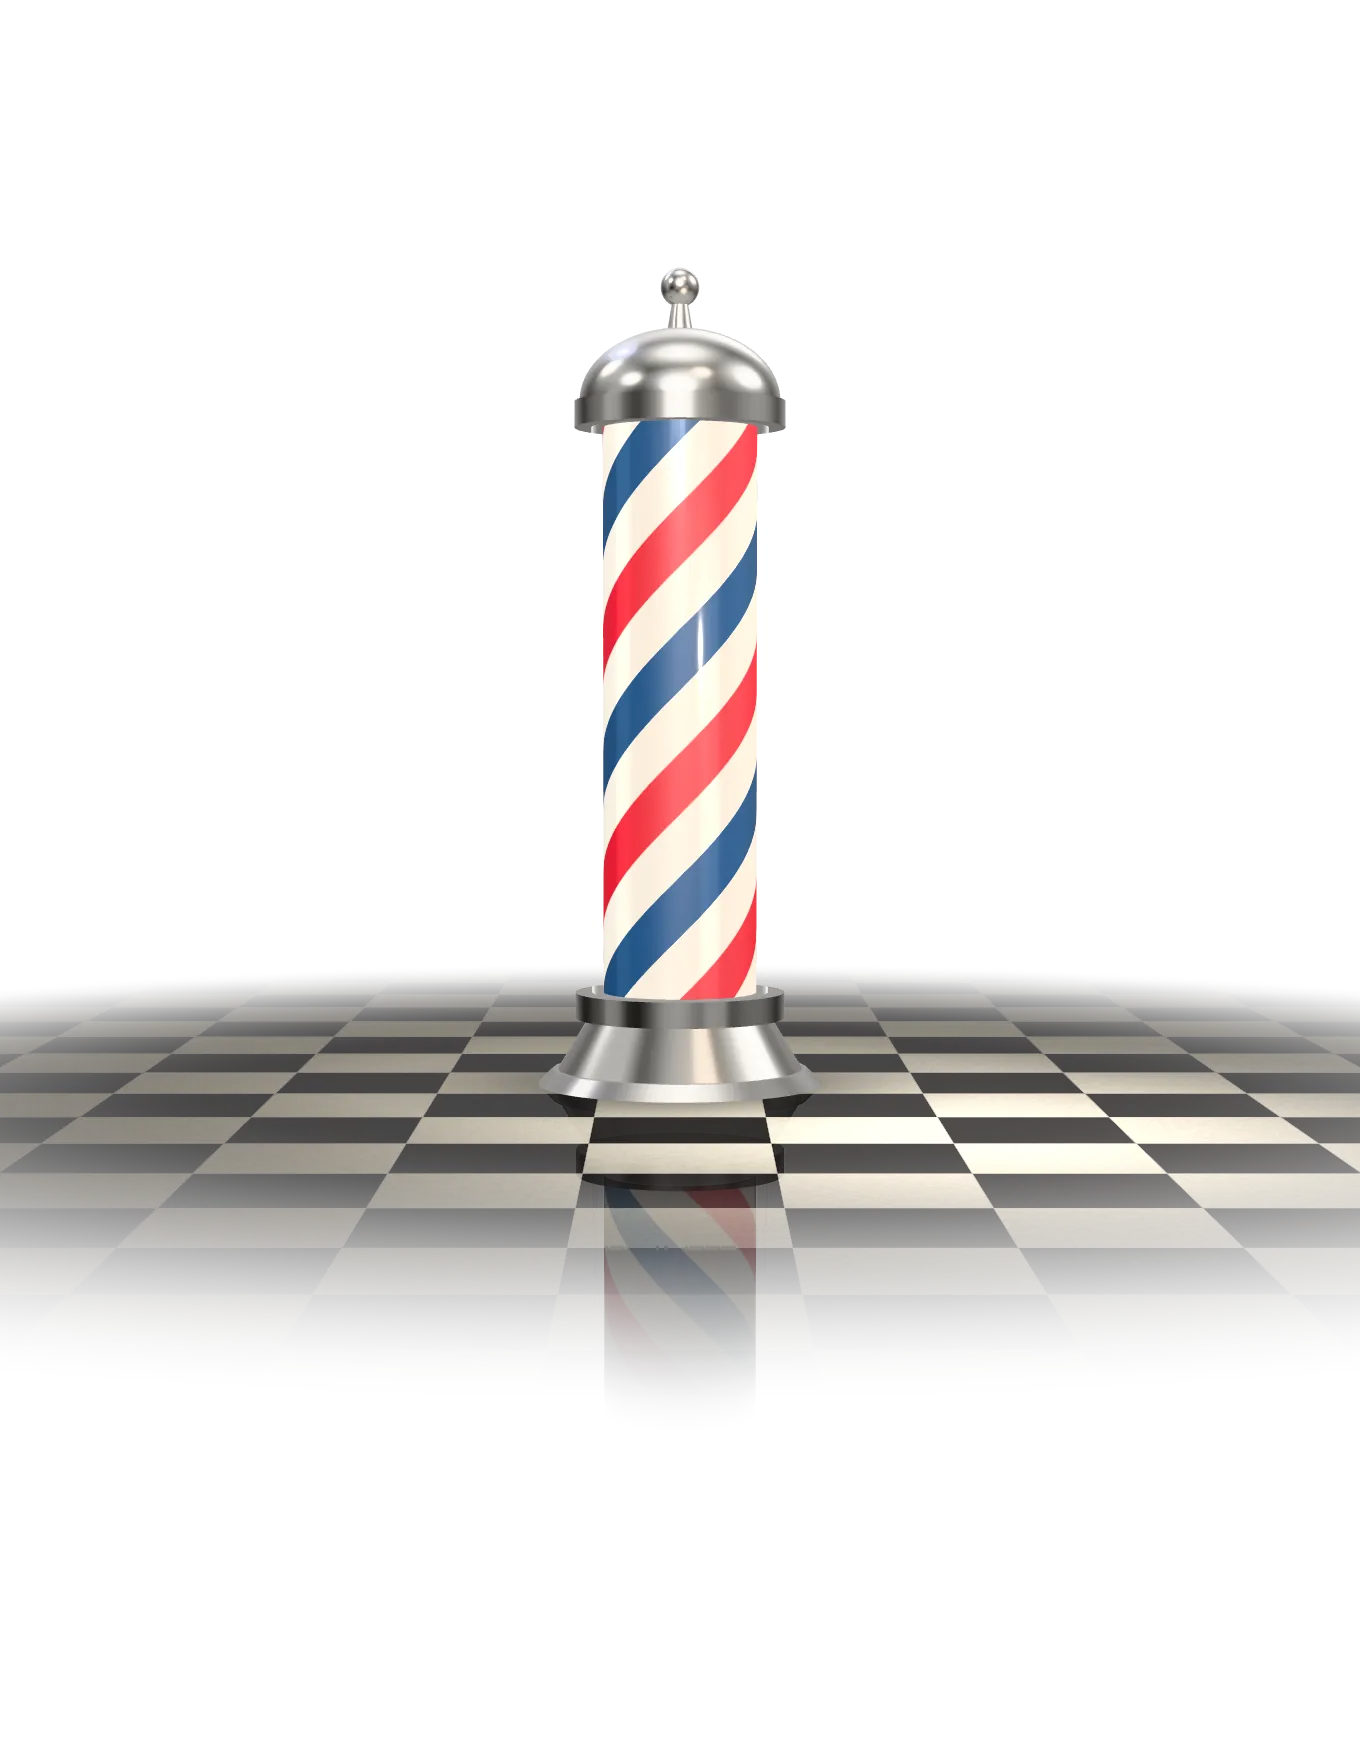
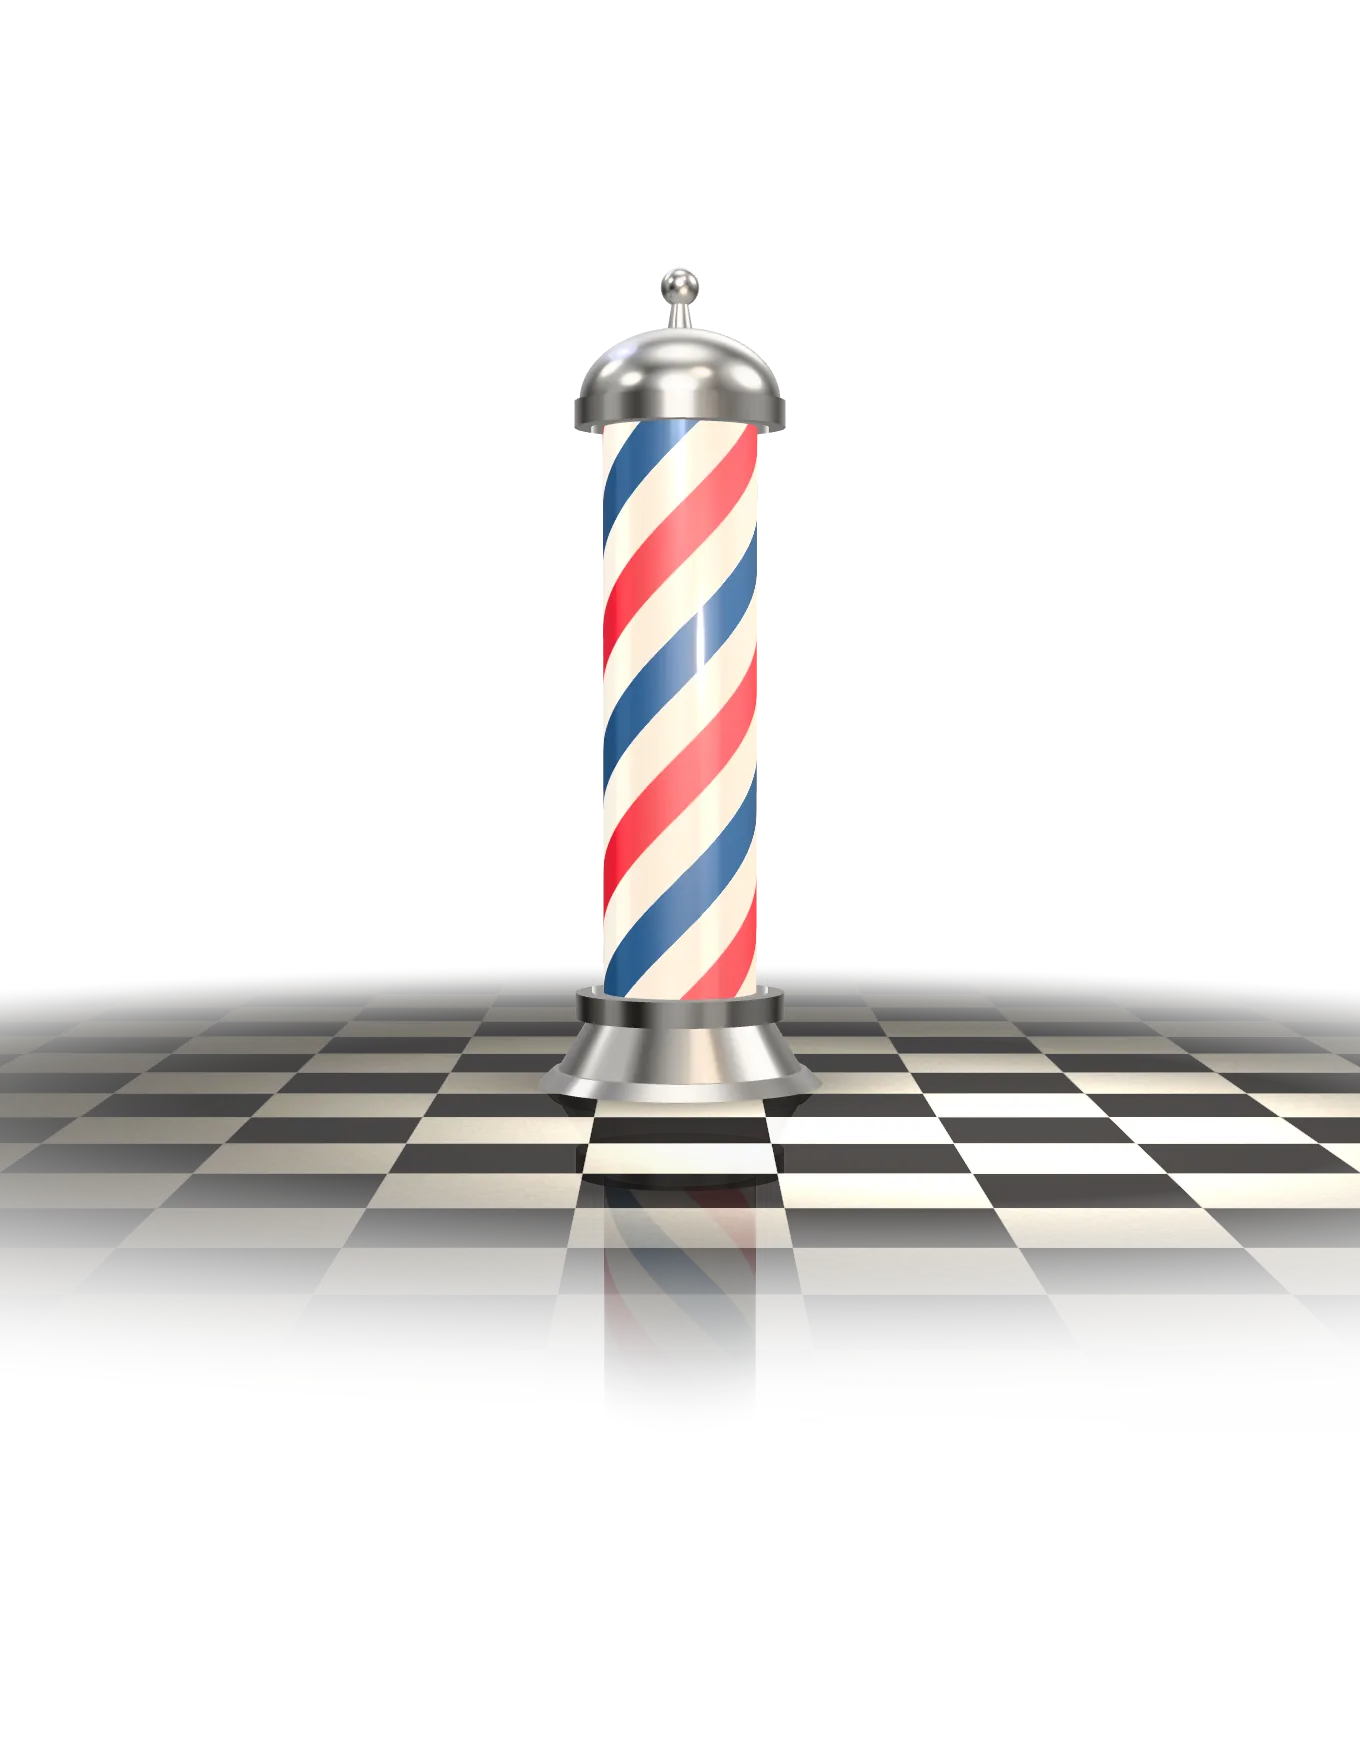
QA fixes: lamp, reflection fade, reduced motion, seams, mobile fit
- Glass sleeve adds light only and writes matching alpha; the floor
  reflection fades out with depth instead of showing a dark shape.
- Stronger cursor lamp pool; stills recaptured from the live scene.
- Reduced motion: MotionConfig follows the user setting (fixes a
  hydration mismatch), no scroll parallax or photo lean.
- Seams turn flat (no 3D distortion) in a clean checker sweep; cape
  lift uses 22 strips on a smooth wave; split hours stack per line.
- Mouse layouts only from 640px up; price photo tracks the cursor
  while scrolling; tighter mobile CTA sizing.

diff --git a/src/components/hero/PoleScene.tsx b/src/components/hero/PoleScene.tsx
@@ -178,14 +178,14 @@ const floorFrag = /* glsl */ `
     base *= 0.93 + 0.1 * hash(floor(p * 95.0));
 
     float d = length(p);
-    float pool = exp(-pow(length(p - uLight) / 1.5, 2.0));
-    float lit = 0.1 + uLightK * pool + 0.42 * exp(-d * d / 4.0);
+    float pool = exp(-pow(length(p - uLight) / 1.7, 2.0));
+    float lit = 0.07 + uLightK * pool + 0.3 * exp(-d * d / 4.0);
     lit *= mix(0.3, 1.0, smoothstep(0.3, 1.3, d)); // contact shadow under the base
     vec3 col = base * lit;
 
     float fade = 1.0 - smoothstep(uRadius * 0.3, uRadius, d);
-    // dark tiles show more of the reflection, like the real floor
-    float alpha = fade * mix(0.74, 0.95, c);
+    // dark tiles show more of the reflection, like the real floor; the lamp lifts the fade where it lands
+    float alpha = min(1.0, fade + pool * 0.45) * mix(0.74, 0.95, c);
     gl_FragColor = vec4(col, alpha);
     #include <colorspace_fragment>
   }
@@ -201,7 +201,7 @@ function Floor({ light }: { light: React.RefObject<THREE.Vector3> }) {
         depthWrite: false,
         uniforms: {
           uLight: { value: new THREE.Vector2(0.8, 1.2) },
-          uLightK: { value: 1.25 },
+          uLightK: { value: 2.1 },
           uInk: { value: new THREE.Color("#0c0908") },
           uCream: { value: new THREE.Color("#ece2cf") },
           uRadius: { value: 5.2 },
@@ -344,7 +344,7 @@ function Rig({ onReady, still }: { onReady?: () => void; still: boolean }) {
       <ambientLight intensity={0.18} />
       <directionalLight position={[-3, 5, -4]} intensity={1.6} color="#cfd8ff" />
       <directionalLight position={[3, 6, 5]} intensity={0.55} color="#fff1e0" />
-      <pointLight ref={point} intensity={9} distance={9} decay={1.6} color="#ffe2c4" />
+      <pointLight ref={point} intensity={24} distance={10} decay={1.6} color="#ffe2c4" />
       <Pole m={m} />
       <Pole m={mm} mirror />
       <Floor light={lightPos} />

diff --git a/src/components/sections/Reviews.tsx b/src/components/sections/Reviews.tsx
@@ -1,7 +1,7 @@
 "use client";
 
 import { useState } from "react";
-import { AnimatePresence, motion, useReducedMotion, type PanInfo } from "framer-motion";
+import { AnimatePresence, motion, type PanInfo } from "framer-motion";
 import { ArrowLeft, ArrowRight } from "lucide-react";
 import { CheckerSeam } from "@/components/ui/CheckerSeam";
 import { Cta, Stars } from "@/components/ui/Cta";
@@ -19,7 +19,6 @@ const serviceEs: Record<string, string> = {
 /** The real Booksy rating, big, with the six real quotes in a carousel over a halftone rose. */
 export function Reviews() {
   const [[i, dir], set] = useState<[number, number]>([0, 1]);
-  const reduce = useReducedMotion();
   const go = (d: number) => set(([cur]) => [(cur + d + reviews.length) % reviews.length, d]);
   const r = reviews[i];
 
@@ -86,13 +85,13 @@ export function Reviews() {
                   <motion.figure
                     key={i}
                     custom={dir}
-                    drag={reduce ? false : "x"}
+                    drag="x"
                     dragConstraints={{ left: 0, right: 0 }}
                     dragElastic={0.25}
                     onDragEnd={onDragEnd}
-                    initial={reduce ? { opacity: 0 } : { opacity: 0, x: dir * 60, filter: "blur(8px)" }}
+                    initial={{ opacity: 0, x: dir * 60, filter: "blur(8px)" }}
                     animate={{ opacity: 1, x: 0, filter: "blur(0px)" }}
-                    exit={reduce ? { opacity: 0 } : { opacity: 0, x: dir * -60, filter: "blur(8px)" }}
+                    exit={{ opacity: 0, x: dir * -60, filter: "blur(8px)" }}
                     transition={{ duration: 0.5, ease: [0.16, 1, 0.3, 1] }}
                     className="cursor-grab touch-pan-y active:cursor-grabbing"
                   >

diff --git a/src/components/sections/Lookbook.tsx b/src/components/sections/Lookbook.tsx
@@ -1,7 +1,7 @@
 "use client";
 
 import { useState } from "react";
-import { AnimatePresence, motion, useReducedMotion } from "framer-motion";
+import { AnimatePresence, motion } from "framer-motion";
 import { RotateCw } from "lucide-react";
 import { CheckerSeam } from "@/components/ui/CheckerSeam";
 import { Photo } from "@/components/ui/Photo";
@@ -64,7 +64,6 @@ function Tile({ look, flipped, onFlip }: { look: Look; flipped: boolean; onFlip:
 export function Lookbook() {
   const [cat, setCat] = useState<Category | "all">("all");
   const [flipped, setFlipped] = useState<Record<string, boolean>>({});
-  const reduce = useReducedMotion();
   const shown = looks.filter((l) => cat === "all" || l.cats.includes(cat));
 
   return (
@@ -125,17 +124,17 @@ export function Lookbook() {
           </div>
 
           <motion.ul
-            layout={!reduce}
+            layout
             className="mt-8 grid grid-cols-2 gap-x-3 gap-y-7 sm:grid-cols-3 sm:gap-x-4 lg:grid-cols-4 lg:gap-x-5 lg:gap-y-10"
           >
             <AnimatePresence mode="popLayout" initial={false}>
               {shown.map((l) => (
                 <motion.li
                   key={l.id}
-                  layout={!reduce}
-                  initial={reduce ? false : { opacity: 0, y: 24, filter: "blur(6px)" }}
+                  layout
+                  initial={{ opacity: 0, y: 24, filter: "blur(6px)" }}
                   animate={{ opacity: 1, y: 0, filter: "blur(0px)" }}
-                  exit={reduce ? { opacity: 0 } : { opacity: 0, scale: 0.94, filter: "blur(6px)" }}
+                  exit={{ opacity: 0, scale: 0.94, filter: "blur(6px)" }}
                   transition={{ duration: 0.5, ease: [0.16, 1, 0.3, 1] }}
                   className="min-w-0"
                 >

diff --git a/src/components/hero/Hero.tsx b/src/components/hero/Hero.tsx
@@ -37,7 +37,7 @@ export function Hero() {
       <motion.div
         aria-hidden
         style={{ y: feelY }}
-        className="absolute inset-x-0 top-[calc(4.5rem+2svh)] flex justify-center lg:top-[11svh]"
+        className="absolute inset-x-0 top-[calc(4.5rem+2svh)] flex justify-center motion-reduce:transform-none! lg:top-[11svh]"
       >
         <span className="block font-display text-[min(56vw,40svh)] leading-[0.78] font-black tracking-[-0.015em] text-paper uppercase lg:text-[min(37vw,60svh)]">
           Feel
@@ -50,7 +50,7 @@ export function Hero() {
       <motion.div
         aria-hidden
         style={{ y: contentY }}
-        className="pointer-events-none absolute inset-x-0 top-[41svh] z-20 flex justify-center lg:top-[47svh]"
+        className="pointer-events-none absolute inset-x-0 top-[41svh] z-20 flex justify-center motion-reduce:transform-none! lg:top-[47svh]"
       >
         <span className="script-stroke block translate-x-[6%] -rotate-[7deg] font-script text-[min(30vw,15svh)] leading-none text-rose-lit drop-shadow-[0_12px_24px_rgb(0_0_0/0.55)] lg:translate-x-[22%] lg:text-[min(15vw,26svh)]">
           Goods
@@ -66,7 +66,7 @@ export function Hero() {
 
       <motion.div
         style={{ y: contentY, opacity: contentOpacity }}
-        className="absolute inset-x-0 bottom-0 z-40 flex flex-col gap-5 px-5 pb-[4.75rem] sm:px-8 lg:flex-row lg:items-end lg:justify-between lg:px-12 lg:pb-12"
+        className="absolute inset-x-0 bottom-0 z-40 flex flex-col gap-5 motion-reduce:transform-none! px-5 pb-[4.75rem] sm:px-8 lg:flex-row lg:items-end lg:justify-between lg:px-12 lg:pb-12"
       >
         <div className="max-w-[26rem]">
           <p className="text-[0.98rem] leading-relaxed text-paper/90 text-pretty sm:text-lg">

diff --git a/src/components/sections/Visit.tsx b/src/components/sections/Visit.tsx
@@ -1,7 +1,7 @@
 "use client";
 
 import { useRef } from "react";
-import { motion, useMotionValue, useReducedMotion, useSpring } from "framer-motion";
+import { motion, useMotionValue, useSpring } from "framer-motion";
 import { Accessibility, Baby, CircleParking, CreditCard, DoorOpen, Phone, Wifi } from "lucide-react";
 import { CheckerSeam } from "@/components/ui/CheckerSeam";
 import { Cta } from "@/components/ui/Cta";
@@ -26,14 +26,13 @@ const icons = {
 /** A stylized map: abstract streets (no invented landmarks), the shop's block in checker tiles, a star pin. */
 function StylizedMap() {
   const ref = useRef<HTMLDivElement>(null);
-  const reduce = useReducedMotion();
   const rx = useMotionValue(26);
   const rz = useMotionValue(-9);
   const srx = useSpring(rx, { stiffness: 120, damping: 18 });
   const srz = useSpring(rz, { stiffness: 120, damping: 18 });
 
   const onMove = (e: React.PointerEvent) => {
-    if (reduce || e.pointerType !== "mouse" || !ref.current) return;
+    if (e.pointerType !== "mouse" || !ref.current) return;
     const r = ref.current.getBoundingClientRect();
     const nx = (e.clientX - r.left) / r.width - 0.5;
     const ny = (e.clientY - r.top) / r.height - 0.5;

diff --git a/src/components/sections/Prices.tsx b/src/components/sections/Prices.tsx
@@ -1,7 +1,15 @@
 "use client";
 
 import { useEffect, useRef, useState } from "react";
-import { AnimatePresence, motion, useMotionValue, useSpring, useTransform, useVelocity } from "framer-motion";
+import {
+  AnimatePresence,
+  motion,
+  useMotionValue,
+  useReducedMotion,
+  useSpring,
+  useTransform,
+  useVelocity,
+} from "framer-motion";
 import { ArrowUpRight } from "lucide-react";
 import { CheckerSeam } from "@/components/ui/CheckerSeam";
 import { Photo } from "@/components/ui/Photo";
@@ -23,7 +31,10 @@ export function Prices() {
   const sx = useSpring(x, { stiffness: 260, damping: 28, mass: 0.6 });
   const sy = useSpring(y, { stiffness: 260, damping: 28, mass: 0.6 });
   const vx = useVelocity(sx);
-  const rotate = useTransform(vx, [-1600, 0, 1600], [-9, 0, 9], { clamp: true });
+  const reduce = useReducedMotion();
+  const lean = useTransform(vx, [-1600, 0, 1600], [-9, 0, 9], { clamp: true });
+  const still = useMotionValue(0);
+  const rotate = reduce ? still : lean;
 
   const last = useRef<{ x: number; y: number } | null>(null);
   const place = () => {

diff --git a/src/app/layout.tsx b/src/app/layout.tsx
@@ -5,7 +5,7 @@ import { Nav } from "@/components/layout/Nav";
 import { Footer } from "@/components/layout/Footer";
 import { CapeLoader } from "@/components/loader/CapeLoader";
 import { PreviewMark } from "@/components/ui/PreviewMark";
-import { LangProvider } from "@/lib/i18n";
+import { Providers } from "@/lib/i18n";
 
 const big = Big_Shoulders({ subsets: ["latin"], axes: ["opsz"], variable: "--font-big", display: "swap" });
 const dafoe = Mr_Dafoe({ subsets: ["latin"], weight: "400", variable: "--font-dafoe", display: "swap" });
@@ -46,12 +46,12 @@ export default function RootLayout({ children }: { children: React.ReactNode }) 
         />
       </head>
       <body className="min-h-svh">
-        <LangProvider>
+        <Providers>
           <CapeLoader />
           <Nav />
           <main className="overflow-x-clip">{children}</main>
           <Footer />
-        </LangProvider>
+        </Providers>
         <PreviewMark />
       </body>
     </html>

diff --git a/src/components/loader/CapeLoader.tsx b/src/components/loader/CapeLoader.tsx
@@ -7,9 +7,9 @@ import { T } from "@/lib/i18n";
 import { useClientValue } from "@/lib/client-stores";
 
 export const CAPE_KEY = "fg-cape";
-const STRIPS = 14;
+const STRIPS = 22;
 const HOLD_MS = 1500;
-const LIFT_MS = 1150;
+const LIFT_MS = 1300;
 
 /**
  * "Cape off": the page opens under the shop's own rose cape, then the cape is whipped off the way a
@@ -59,8 +59,9 @@ export function CapeLoader() {
   return (
     <div className="cape-loader fixed inset-0 z-[100]" aria-hidden={lifting}>
       {Array.from({ length: STRIPS }, (_, i) => {
-        // pulled from the left, with a ripple running through the hem
-        const delay = i * 34 + Math.sin(i * 0.95) * 46 + 40;
+        // pulled from the left; a smooth wave across neighbours makes the hem ripple instead of step
+        const u = i / (STRIPS - 1);
+        const delay = 40 + u * 360 + Math.sin(u * Math.PI * 2) * 55;
         return (
           <div
             key={i}

diff --git a/src/lib/i18n.tsx b/src/lib/i18n.tsx
@@ -1,6 +1,7 @@
 "use client";
 
 import { useCallback, useSyncExternalStore, type ReactNode } from "react";
+import { MotionConfig } from "framer-motion";
 
 export type Lang = "en" | "es";
 export type Copy = { en: string; es: string };
@@ -35,9 +36,9 @@ export function useLang() {
   return { lang, setLang: useCallback((l: Lang) => setLang(l), []) };
 }
 
-/** Kept for layout symmetry; the store needs no provider. */
-export function LangProvider({ children }: { children: ReactNode }) {
-  return <>{children}</>;
+/** App-wide client config: framer-motion follows the visitor's reduced-motion setting everywhere. */
+export function Providers({ children }: { children: ReactNode }) {
+  return <MotionConfig reducedMotion="user">{children}</MotionConfig>;
 }
 
 /** Both languages in the markup; CSS shows the one html[data-lang] asks for, so there is no flash. */

diff --git a/src/app/globals.css b/src/app/globals.css
@@ -1,7 +1,7 @@
 @import "tailwindcss";
 
 /* devices with a real mouse: cursor-follow photos, hover flips */
-@custom-variant fine (@media (hover: hover) and (pointer: fine));
+@custom-variant fine (@media (hover: hover) and (pointer: fine) and (min-width: 640px));
 
 /* Black, white and one red rose: the shop's checkered floor and the rose capes on every chair. */
 @theme {

diff --git a/DIRECTION.md b/DIRECTION.md
@@ -29,7 +29,7 @@ The grade turns cluttered phone shots into one consistent editorial set, and the
 **What happens:**
 - The screen opens covered by their real rose cape. It is a crop of fg-085, cape-graded so the roses are deep red on black fabric.
 - In the middle, the name sits over a progress bar made of the moving pole stripe (the existing seam-free `PoleStripes` SVG).
-- Then the cape gets **whipped off** the way a barber pulls it at the end of a cut. It lifts in 14 vertical strips with a staggered, wave-shaped delay, so the hem ripples like fabric while the shop is revealed underneath.
+- Then the cape gets **whipped off** the way a barber pulls it at the end of a cut. It lifts in 22 vertical strips with a staggered, wave-shaped delay, so the hem ripples like fabric while the shop is revealed underneath.
 - It plays once per session (sessionStorage, plus an inline head script so a repeat visit never flashes it). It is skippable with a Skip button or the Esc key.
 - With reduced motion it doesn't play at all. Without JS it is hidden by a noscript style.
 
